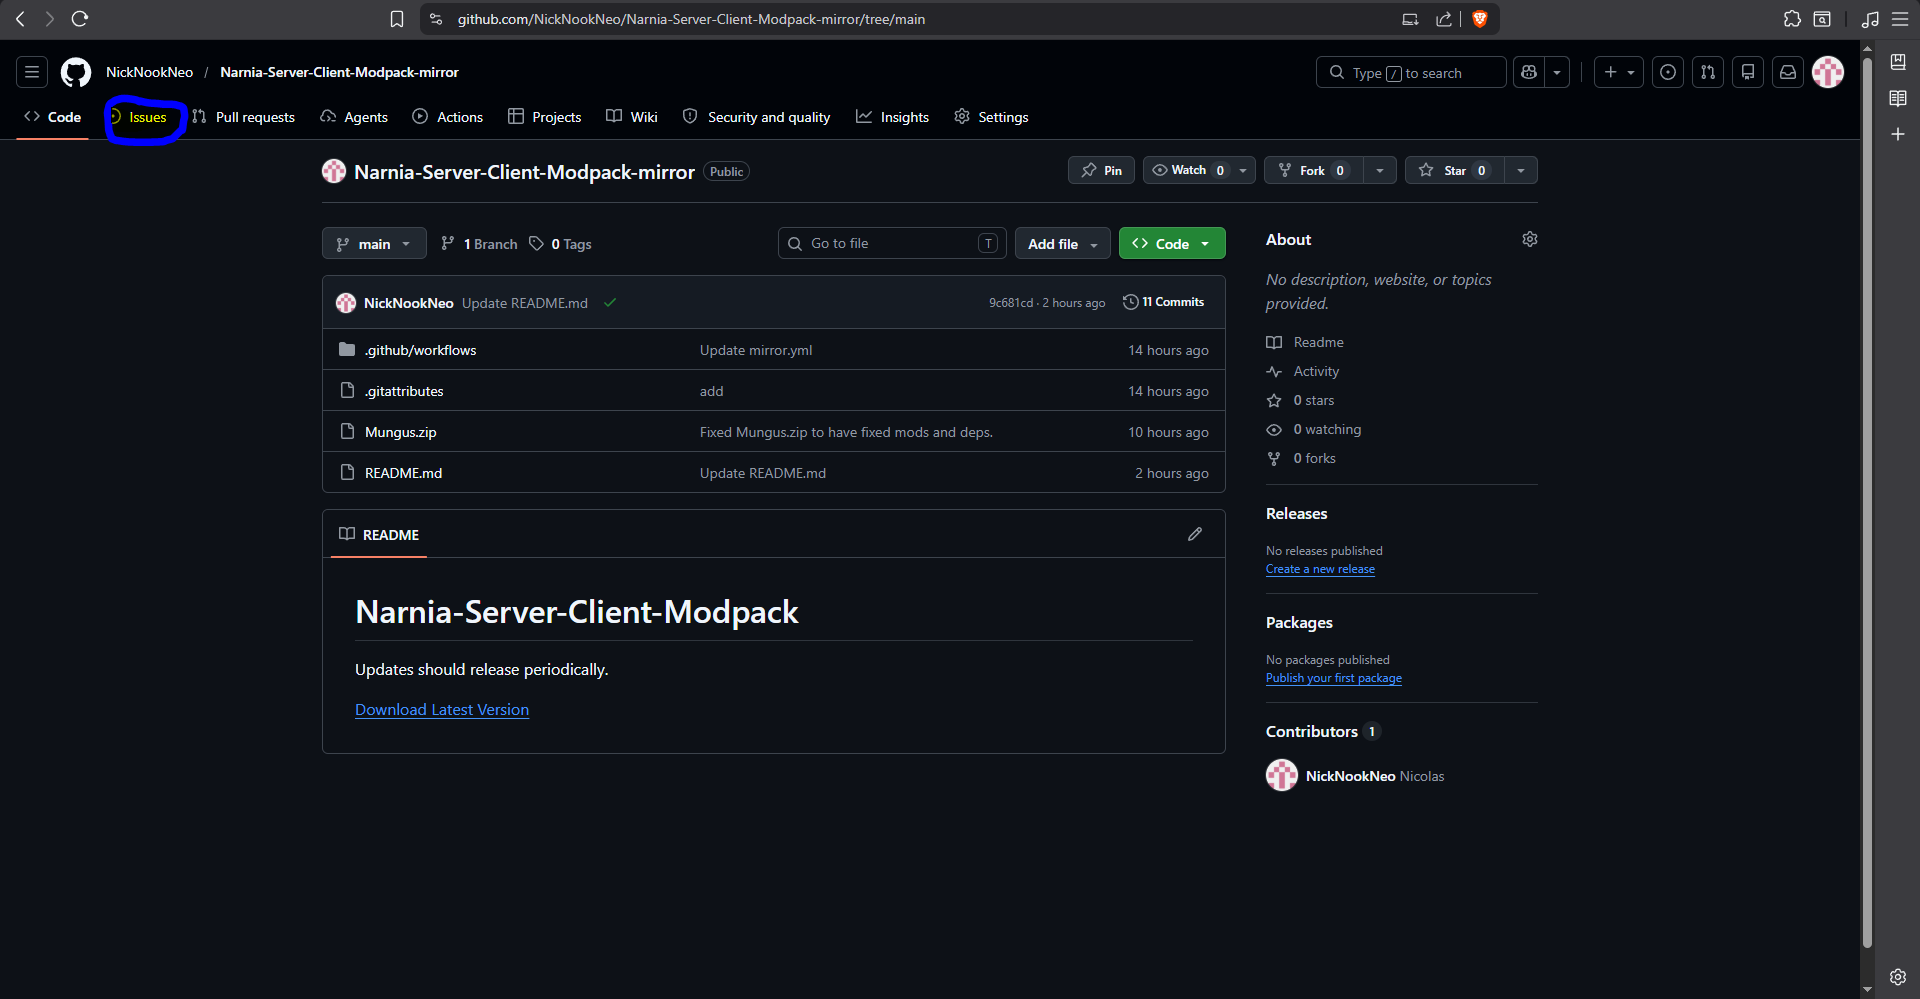
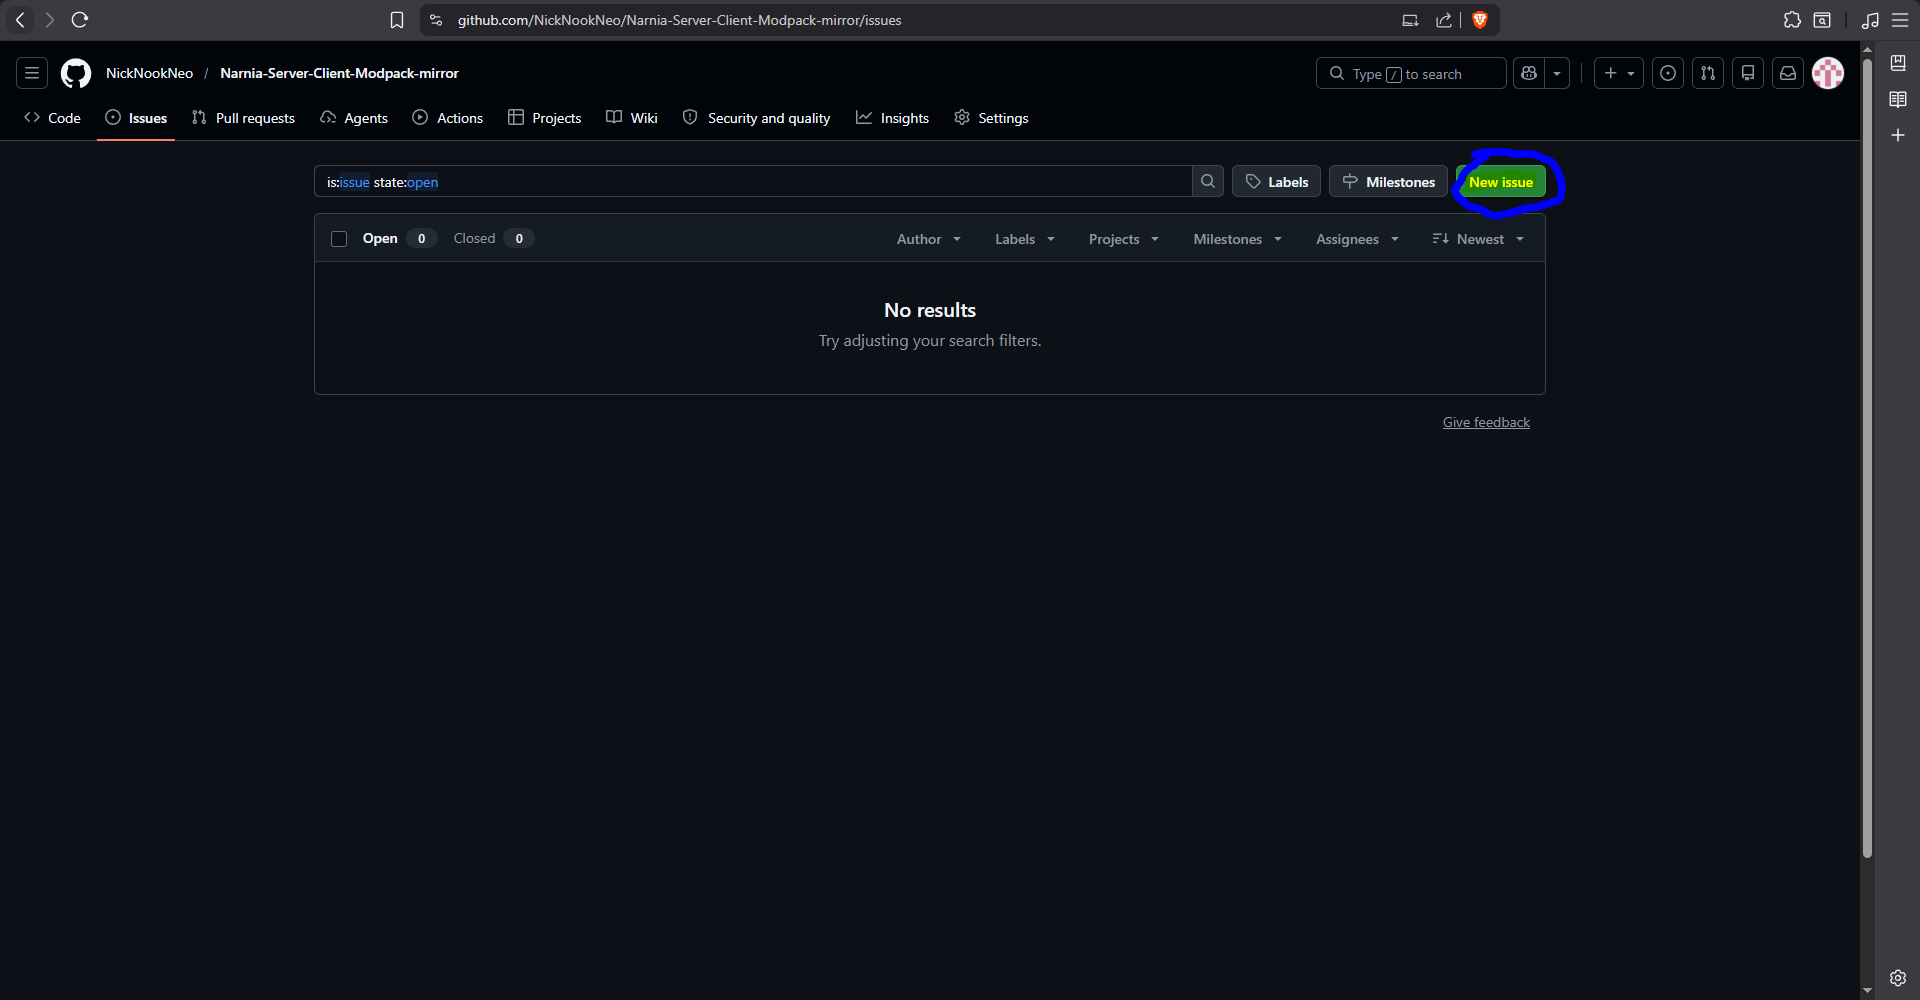
Updates General

diff --git a/ReportIssues.md b/ReportIssues.md
@@ -7,3 +7,10 @@
 # You can now head over to [the repo](../../issues) 
 ## [(If on Codeberg use this)](../../../issues)
 ![Step4](./ReportTutorial/Steps/Prism/Step4-Prism.PNG)
+# Now you should be here, Create an issue.
+![Step1](./ReportTutorial/Steps/Github/Step1-Github.PNG)
+# Then do this.
+![Step2](./ReportTutorial/Steps/Github/Step2-Github.PNG)
+# Continue
+![Step3](./ReportTutorial/Steps/Github/Step3-Github.PNG)
+